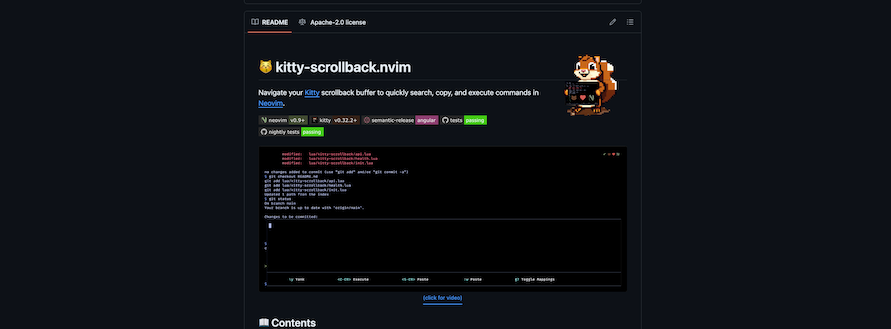
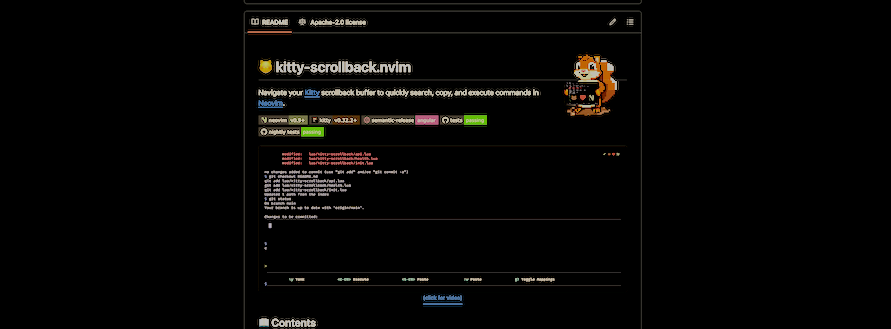
chore: tweak color of kitty-scrollback.nvim image

diff --git a/public/index.html b/public/index.html
@@ -195,10 +195,10 @@
             <a href="/kitty-scrollback-v5/" aria-label=kitty-scrollback.nvim&#32;v5.0.0&#32;released!><img
         
         loading="eager"
-        src="/kitty-scrollback-v5/kitty-scrollback-github_hu66a545134ccd578315812b697ea872c6_76770_1200x0_resize_q75_h2_lanczos_3.webp"
-        srcset="/kitty-scrollback-v5/kitty-scrollback-github_hu66a545134ccd578315812b697ea872c6_76770_700x0_resize_q75_h2_lanczos_3.webp 700w,
-            /kitty-scrollback-v5/kitty-scrollback-github_hu66a545134ccd578315812b697ea872c6_76770_1200x0_resize_q75_h2_lanczos_3.webp 1200w,
-            /kitty-scrollback-v5/kitty-scrollback-github_hu66a545134ccd578315812b697ea872c6_76770_2000x0_resize_q75_h2_lanczos_3.webp 2000w"
+        src="/kitty-scrollback-v5/kitty-scrollback-github_hub3b66d21d756c5293125232c1cdcb8d7_63946_1200x0_resize_q75_h2_lanczos_3.webp"
+        srcset="/kitty-scrollback-v5/kitty-scrollback-github_hub3b66d21d756c5293125232c1cdcb8d7_63946_700x0_resize_q75_h2_lanczos_3.webp 700w,
+            /kitty-scrollback-v5/kitty-scrollback-github_hub3b66d21d756c5293125232c1cdcb8d7_63946_1200x0_resize_q75_h2_lanczos_3.webp 1200w,
+            /kitty-scrollback-v5/kitty-scrollback-github_hub3b66d21d756c5293125232c1cdcb8d7_63946_2000x0_resize_q75_h2_lanczos_3.webp 2000w"
         title="kitty-scrollback.nvim v5.0.0 release announcment" height="443"   width="1200" ></a>
         </div><h1 class="single-title">
         <a href="/kitty-scrollback-v5/">kitty-scrollback.nvim v5.0.0 released!</a>
